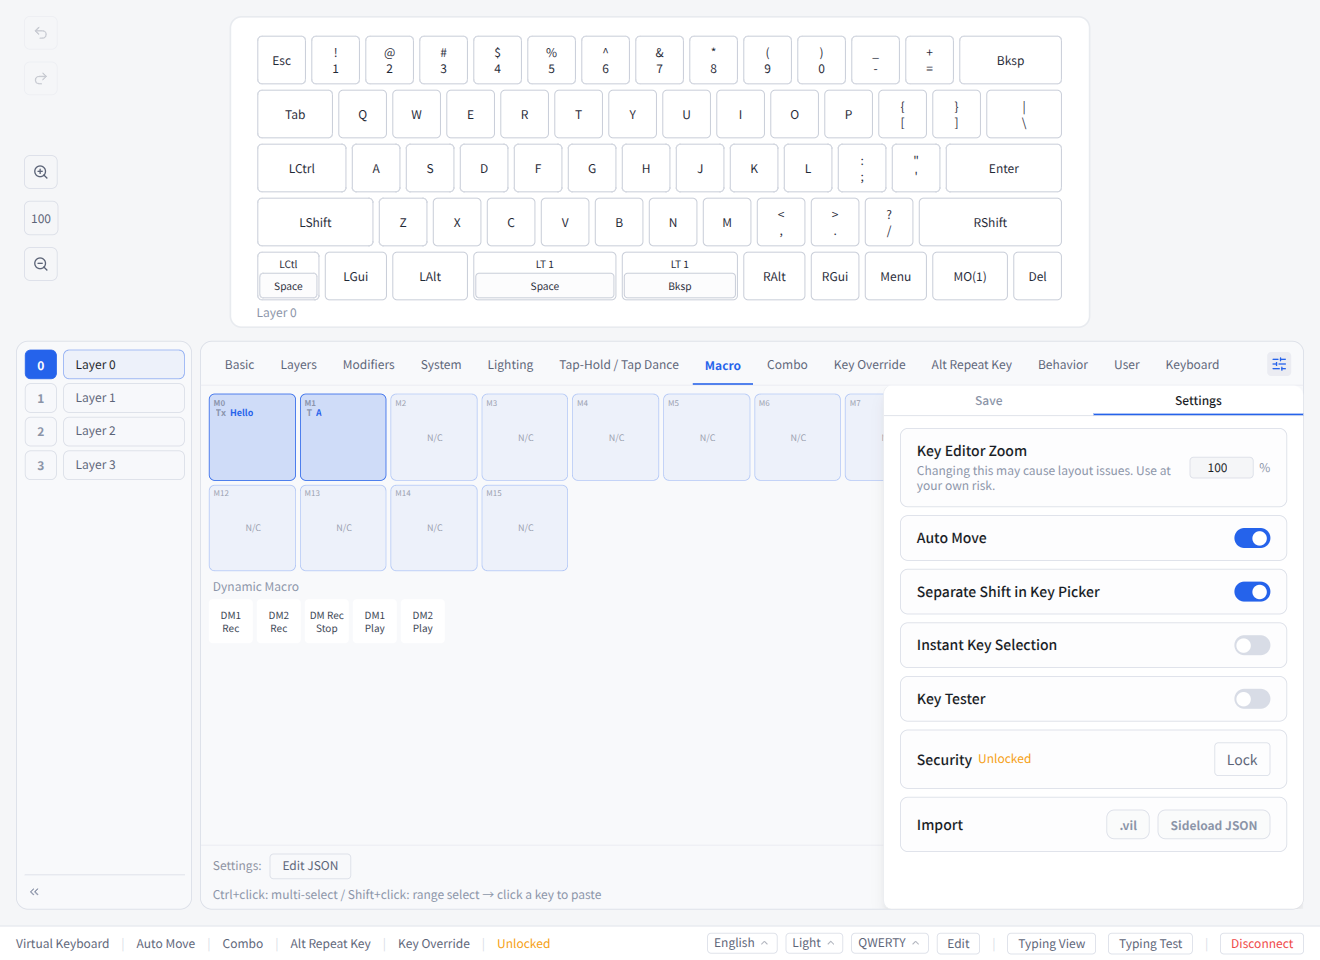
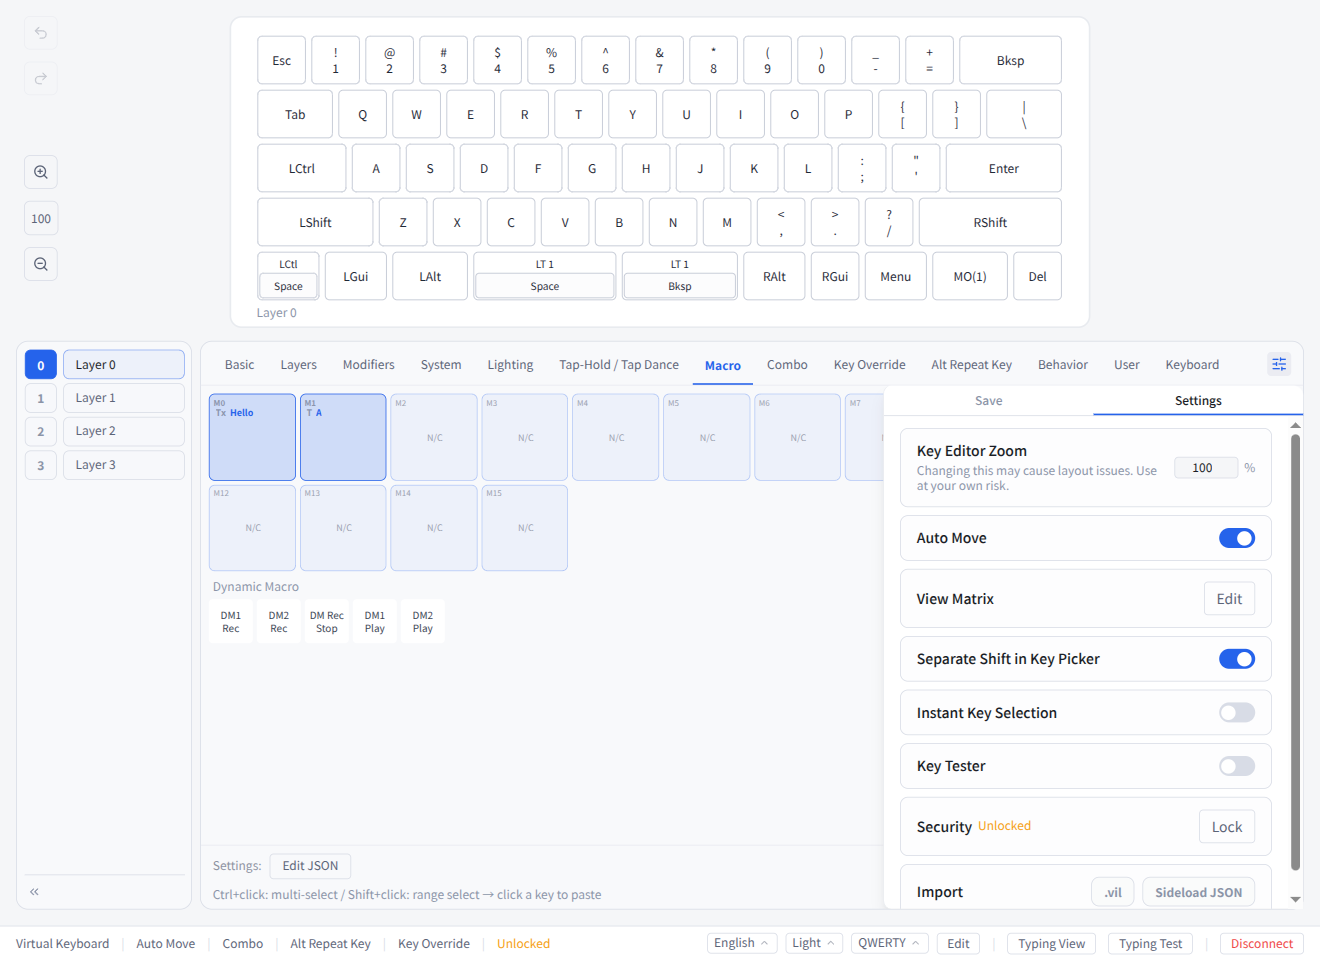
docs: View Matrix section in the operation guide
New section in both languages (mode behavior, modal, sparse overrides,
sync note, Auto Move ordering), a per-keyboard settings row in Data.md,
a refreshed overlay-panel screenshot, regenerated guide.html, and stale
"Auto Advance" labels updated to the UI's "Auto Move".

diff --git a/docs/OPERATION-GUIDE.md b/docs/OPERATION-GUIDE.md
@@ -21,6 +21,7 @@ Screenshots were taken using the software-emulated GPK60-63R keyboard, displayed
   - [2.3 Layer Switching](#23-layer-switching)
   - [2.4 Key Popover](#24-key-popover)
   - [2.5 Layout Options](#25-layout-options)
+  - [2.6 View Matrix](#26-view-matrix)
 - [3. Keycode Palette](#3-keycode-palette)
   - [3.1 Basic](#31-basic)
   - [3.2 Layers](#32-layers)
@@ -714,6 +715,20 @@ Some keyboards support multiple physical layouts (e.g., split backspace, ISO ent
 
 > **Note**: The Layout Options button only appears for keyboards that define multiple layout variants. Most keyboards with a single fixed layout do not show this button. Screenshots in this section were taken using a dummy JSON definition loaded via "Load from JSON file".
 
+### 2.6 View Matrix
+
+When **Auto Move** is enabled (§3.14), assigning a keycode automatically advances the selection to the next key. Keys are visited in order of their matrix position (sorted by row, then by column) — by default the physical matrix defined by the keyboard, which gives a natural left-to-right, top-to-bottom walk even on keyboards whose definition lists keys in a scrambled order. The View Matrix lets you customize this order per keyboard by assigning each key a custom view position.
+
+To edit the View Matrix, open the Keycodes Overlay Panel (§3.14) and click **Edit** in the **View Matrix** row. While the mode is active:
+
+- The keymap display goes blank — instead of keycodes, each key shows its effective view position as two lines: `R` (row) and `C` (column)
+- All keymap operations are disabled: layer switching, key assignment, the key popover, and the Key Tester (turned off automatically on entry)
+- The layer panel is replaced by a **View Matrix** panel with a **Reset View Matrix** button — click it and confirm (**Reset?**) to delete all custom positions and return to the physical matrix order
+- Clicking a key opens the **Edit View Position** dialog. **Matrix** shows the key's physical matrix position (read-only); enter a new **Row** and **Col** and click **Save**. Entering values equal to the key's physical position removes its custom position instead
+- Click **Done** in the **View Matrix** row to exit the mode (it also exits automatically when switching or disconnecting the keyboard)
+
+Only keys you change are stored — every other key keeps its physical matrix position in the ordering. Encoders and decorative keys are not part of the Auto Move order and cannot be edited in this mode. The View Matrix is saved per keyboard and included in cloud sync (§6.1).
+
 ---
 
 ## 3. Keycode Palette
@@ -966,7 +981,8 @@ The Keycodes Overlay Panel provides quick access to editor tools and save functi
 ![Overlay Panel — Settings](screenshots/overlay-tools.png)
 
 - **Key Editor Zoom**: Set the UI zoom level (50–200%) applied while in key editor mode. Defaults to the global UI zoom (§6.5) when not configured. Saved and synced per keyboard
-- **Auto Advance**: Toggle automatic advancement to the next key after assigning a keycode
+- **Auto Move**: Toggle automatic advancement to the next key after assigning a keycode
+- **View Matrix**: Enter or leave View Matrix mode (**Edit** / **Done**) to customize the Auto Move key order (see §2.6)
 - **Instant Key Selection**: Toggle instant key selection mode (see §2.2 for behavior details)
 - **Separate Shift in Key Picker**: Toggle split display for combined keycodes (e.g., show Mod-Tap as two halves)
 - **Key Tester**: Toggle Matrix Tester mode (supported keyboards only)
@@ -1507,7 +1523,7 @@ Troubleshooting and data management functions are available in the **Data** pane
 The Tools tab in the Settings modal includes a **Defaults** section for setting initial preferences for new keyboard connections:
 
 - **Keyboard Layout**: Default key labels for new keyboards. The dropdown lists every entry currently installed in the **Key Labels** store (see §6.2). QWERTY ships built-in; install more from Pipette Hub or import a `.json` via **Key Labels Manage**. The drop-down preserves the manual order set in the modal — drag a row up or down there and the dropdown follows
-- **Auto Advance**: Default auto-advance behavior
+- **Auto Move**: Default auto-advance behavior
 - **Instant Key Selection**: Default instant key selection behavior (see §2.2)
 - **Layer Panel Open**: Whether the layer panel starts expanded or collapsed
 - **Basic View Type**: Default view type for the Basic tab (ANSI/ISO/JIS/List)
@@ -1933,7 +1949,7 @@ The status bar at the bottom of the screen shows connection information and acti
 
 - **Device name**: Shows the name of the connected keyboard
 - **Loaded label**: The label of the loaded snapshot (shown only when a snapshot is loaded)
-- **Auto Advance**: Status of automatic key advancement after assigning a keycode (shown only when enabled)
+- **Auto Move**: Status of automatic key advancement after assigning a keycode (shown only when enabled)
 - **Locked / Unlocked**: Keyboard lock status (prevents accidental changes to dangerous keycodes)
 - **Sync status**: Cloud sync status (shown only when sync is configured)
 - **Hub connection**: Pipette Hub connection status (shown only when Hub is configured)

diff --git a/docs/Data.md b/docs/Data.md
@@ -80,6 +80,7 @@ Settings tied to a specific keyboard, identified by its unique ID.
 | Split key mode | How split-key tiles are displayed (split or flat) |
 | Quick select | Quick-select mode for the keycode popover |
 | Keymap scale | Keymap zoom level |
+| View matrix | Custom key positions for the Auto Move advance order (sparse — only overridden keys; others follow the physical matrix) |
 | View mode | Last active view (Editor / Typing Test / Typing View) — auto-restored on reconnect |
 | Typing test history | WPM/accuracy records (up to 500 entries) |
 | Typing test config | Mode, word count, and other test preferences |